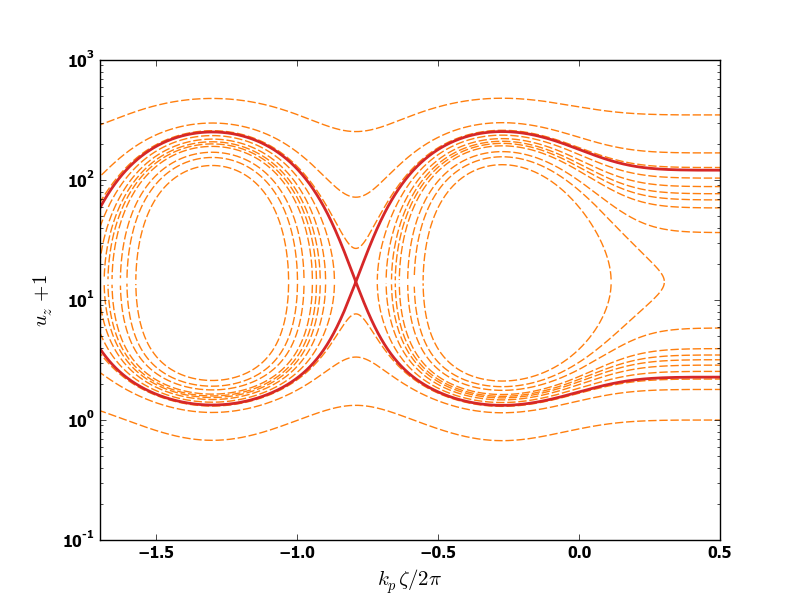
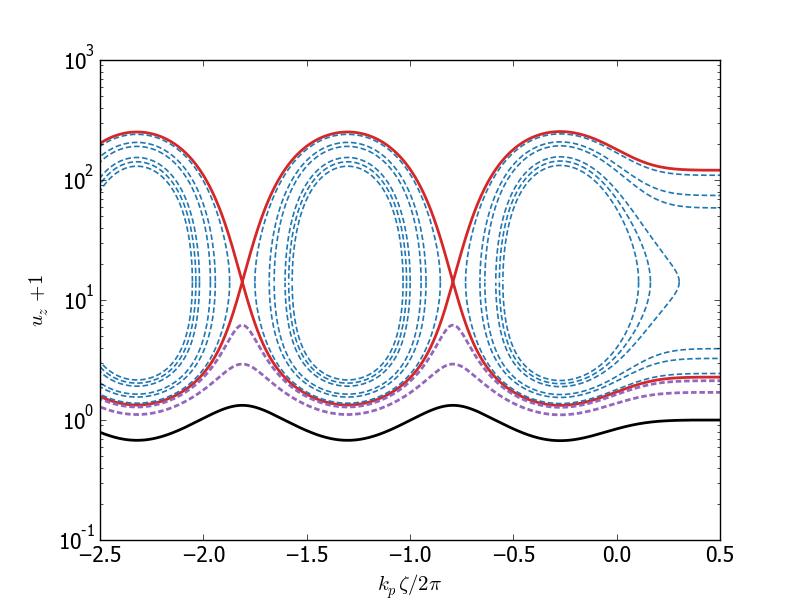
espaces.png

diff --git a/LaserPlasmaAcc/Trajectories.py b/LaserPlasmaAcc/Trajectories.py
@@ -91,8 +91,8 @@ def a_zeta(_zeta):
 
 # Make time array for solution
 tStart = -5.0
-tStop = 12.
-tNum = 10000
+tStop = 20.
+tNum = 500000
 tInc = tStop/tNum
 t = np.arange(tStart, tStop, tInc)
 
@@ -130,7 +130,7 @@ ax1.plot(-t/(2*3.14), [a_zeta(zeta)*a_zeta(zeta) for zeta in t], dashes=[6, 2], 
 #ax1.set_ylabel('$\phi(k_p\zeta)$', fontsize=15, color=tableau20[0])
 
 
-ax1.set_xlim(-1.7, 0.5)
+ax1.set_xlim(-2.5, 0.5)
 ax1.set_ylim(-0.4, 1.1)
 
 # Plot derivative as a function of zetakp
@@ -168,34 +168,87 @@ gamma_num = 10.
 gamma_step = (gamma_max)/gamma_num
 
 
-# A few trajectories
-fig2 = plt.figure(2, figsize=(8,6), dpi=80, facecolor='w', edgecolor='k', linewidth=5)
-ax1 = fig2.add_subplot(111)
+# # A few trajectories
+# fig2 = plt.figure(2, figsize=(8,6), dpi=80, facecolor='w', edgecolor='k', linewidth=5)
+# ax1 = fig2.add_subplot(111)
+#
+# for gamma_0 in np.arange(gamma_min, gamma_max, gamma_step):
+#     for i0 in np.arange(i0_min, i0_max, i0_step):
+#         phi_0 = phi_zeta_kp_sol[i0]
+#
+#         H0 = H(gamma_0, beta_p, phi_0)
+#
+#
+#         s1 = []
+#         s2 = []
+#
+#         for i in np.arange(i0, len(zeta_kp)):
+#             phi = phi_zeta_kp_sol[i]
+#             a = a_zeta(i)
+#             a1, a2 = uz(H0, phi, a)
+#
+#             s1.append(a1)
+#             s2.append(a2)
+#
+#         ax1.semilogy(-t[i0:]/(2*3.14), s1, dashes=[6, 2], linewidth=1, color=tableau20[2])
+#         ax1.semilogy(-t[i0:]/(2*3.14), s2, dashes=[6, 2], linewidth=1, color=tableau20[2])
+#
+#
+# Hsep = 1/gamma_p - min(phi_zeta_kp_sol)
+# print "Hsep = " + str(Hsep)
+# s1 = []
+# s2 = []
+# for i in np.arange(i0_min, len(zeta_kp)):
+#     phi = phi_zeta_kp_sol[i]
+#     a = a_zeta(i)
+#     a1, a2 = uz(Hsep, phi, a)
+#
+#     s1.append(a1)
+#     s2.append(a2)
+#
+# ax1.semilogy(-t[i0:]/(2*3.14), s1, linewidth=2, color=tableau20[6])
+# ax1.semilogy(-t[i0:]/(2*3.14), s2, linewidth=2, color=tableau20[6])
+#
+# Hin = [Hsep/i for i in [2, 3, 5, 50]]
+#
+# for h in Hin:
+#     for i0 in np.arange(i0_min, i0_max, i0_step):
+#         phi_0 = phi_zeta_kp_sol[i0]
+#
+#         H0 = h
+#         s1 = []
+#         s2 = []
+#
+#         for i in np.arange(i0, len(zeta_kp)):
+#             phi = phi_zeta_kp_sol[i]
+#             a = a_zeta(i)
+#             a1, a2 = uz(H0, phi, a)
+#
+#             s1.append(a1)
+#             s2.append(a2)
+#
+#         ax1.semilogy(-t[i0:]/(2*3.14), s1, dashes=[6, 2], linewidth=1, color=tableau20[2])
+#         ax1.semilogy(-t[i0:]/(2*3.14), s2, dashes=[6, 2], linewidth=1, color=tableau20[2])
+#
+# ax1.set_xlim(-1.7, 0.5)
+# ax1.set_xlabel('$k_p\zeta/2\pi$', fontsize=15)
+# ax1.set_ylabel('$u_z+1$', fontsize=15)
+#
+#
+# #plt.savefig(my_path + 'trajectories.png')
 
-for gamma_0 in np.arange(gamma_min, gamma_max, gamma_step):
-    for i0 in np.arange(i0_min, i0_max, i0_step):
-        phi_0 = phi_zeta_kp_sol[i0]
+##############################################
+#    PLOT TRAJECTORIES WITH SEPERATRIX       #
+##############################################
 
-        H0 = H(gamma_0, beta_p, phi_0)
-
-
-        s1 = []
-        s2 = []
-
-        for i in np.arange(i0, len(zeta_kp)):
-            phi = phi_zeta_kp_sol[i]
-            a = a_zeta(i)
-            a1, a2 = uz(H0, phi, a)
-
-            s1.append(a1)
-            s2.append(a2)
-
-        ax1.semilogy(-t[i0:]/(2*3.14), s1, dashes=[6, 2], linewidth=1, color=tableau20[2])
-        ax1.semilogy(-t[i0:]/(2*3.14), s2, dashes=[6, 2], linewidth=1, color=tableau20[2])
+fig3 = plt.figure(2, figsize=(8,6), dpi=80, facecolor='w', edgecolor='k', linewidth=5)
+ax1 = fig3.add_subplot(111)
 
 
 Hsep = 1/gamma_p - min(phi_zeta_kp_sol)
 print "Hsep = " + str(Hsep)
+
+
 s1 = []
 s2 = []
 for i in np.arange(i0_min, len(zeta_kp)):
@@ -206,14 +259,14 @@ for i in np.arange(i0_min, len(zeta_kp)):
     s1.append(a1)
     s2.append(a2)
 
-ax1.semilogy(-t[i0:]/(2*3.14), s1, linewidth=2, color=tableau20[6])
-ax1.semilogy(-t[i0:]/(2*3.14), s2, linewidth=2, color=tableau20[6])
+ax1.semilogy(-t[i0_min:]/(2*3.14), s1, linewidth=2, color=tableau20[6])
+ax1.semilogy(-t[i0_min:]/(2*3.14), s2, linewidth=2, color=tableau20[6])
 
-Hin = [Hsep/i for i in [2, 3, 5, 50]]
+
+Hin = [Hsep/i for i in [1.1, 1.6, 2, 5, 10, 200]]
 
 for h in Hin:
     for i0 in np.arange(i0_min, i0_max, i0_step):
-        phi_0 = phi_zeta_kp_sol[i0]
 
         H0 = h
         s1 = []
@@ -227,12 +280,50 @@ for h in Hin:
             s1.append(a1)
             s2.append(a2)
 
-        ax1.semilogy(-t[i0:]/(2*3.14), s1, dashes=[6, 2], linewidth=1, color=tableau20[2])
-        ax1.semilogy(-t[i0:]/(2*3.14), s2, dashes=[6, 2], linewidth=1, color=tableau20[2])
+        ax1.semilogy(-t[i0:]/(2*3.14), s1, dashes=[4, 2], linewidth=1.2, color=tableau20[0])
+        ax1.semilogy(-t[i0:]/(2*3.14), s2, dashes=[4, 2], linewidth=1.2, color=tableau20[0])
 
 ax1.set_xlim(-1.7, 0.5)
 ax1.set_xlabel('$k_p\zeta/2\pi$', fontsize=15)
 ax1.set_ylabel('$u_z+1$', fontsize=15)
-#plt.savefig(my_path + 'trajectories.png')
 
+Hout = [Hsep*i for i in [1.1, 1.5]]
 
+for h in Hout:
+    for i0 in np.arange(i0_min, i0_max, i0_step):
+
+        H0 = h
+        s1 = []
+        s2 = []
+
+        for i in np.arange(i0, len(zeta_kp)):
+            phi = phi_zeta_kp_sol[i]
+            a = a_zeta(i)
+            a1, a2 = uz(H0, phi, a)
+
+            s1.append(a1)
+            s2.append(a2)
+
+        ax1.semilogy(-t[i0:]/(2*3.14), s1, dashes=[4, 2],linewidth=2, color=tableau20[8])
+  #      ax1.semilogy(-t[i0:]/(2*3.14), s2, dashes=[6, 2], linewidth=1, color=tableau20[8])
+
+for i0 in np.arange(i0_min, i0_max, i0_step):
+
+    H0 = H(1, beta_p,0)
+    s1 = []
+    s2 = []
+
+    for i in np.arange(i0, len(zeta_kp)):
+        phi = phi_zeta_kp_sol[i]
+        a = a_zeta(i)
+        a1, a2 = uz(H0, phi, a)
+
+        s1.append(a1)
+        s2.append(a2)
+
+    ax1.semilogy(-t[i0:]/(2*3.14), s1, linewidth=2, color='black')
+
+ax1.set_xlim(-2.5, 0.5)
+ax1.set_xlabel('$k_p\zeta/2\pi$', fontsize=15)
+ax1.set_ylabel('$u_z+1$', fontsize=15)
+plt.savefig(my_path + 'trajectories.png')
